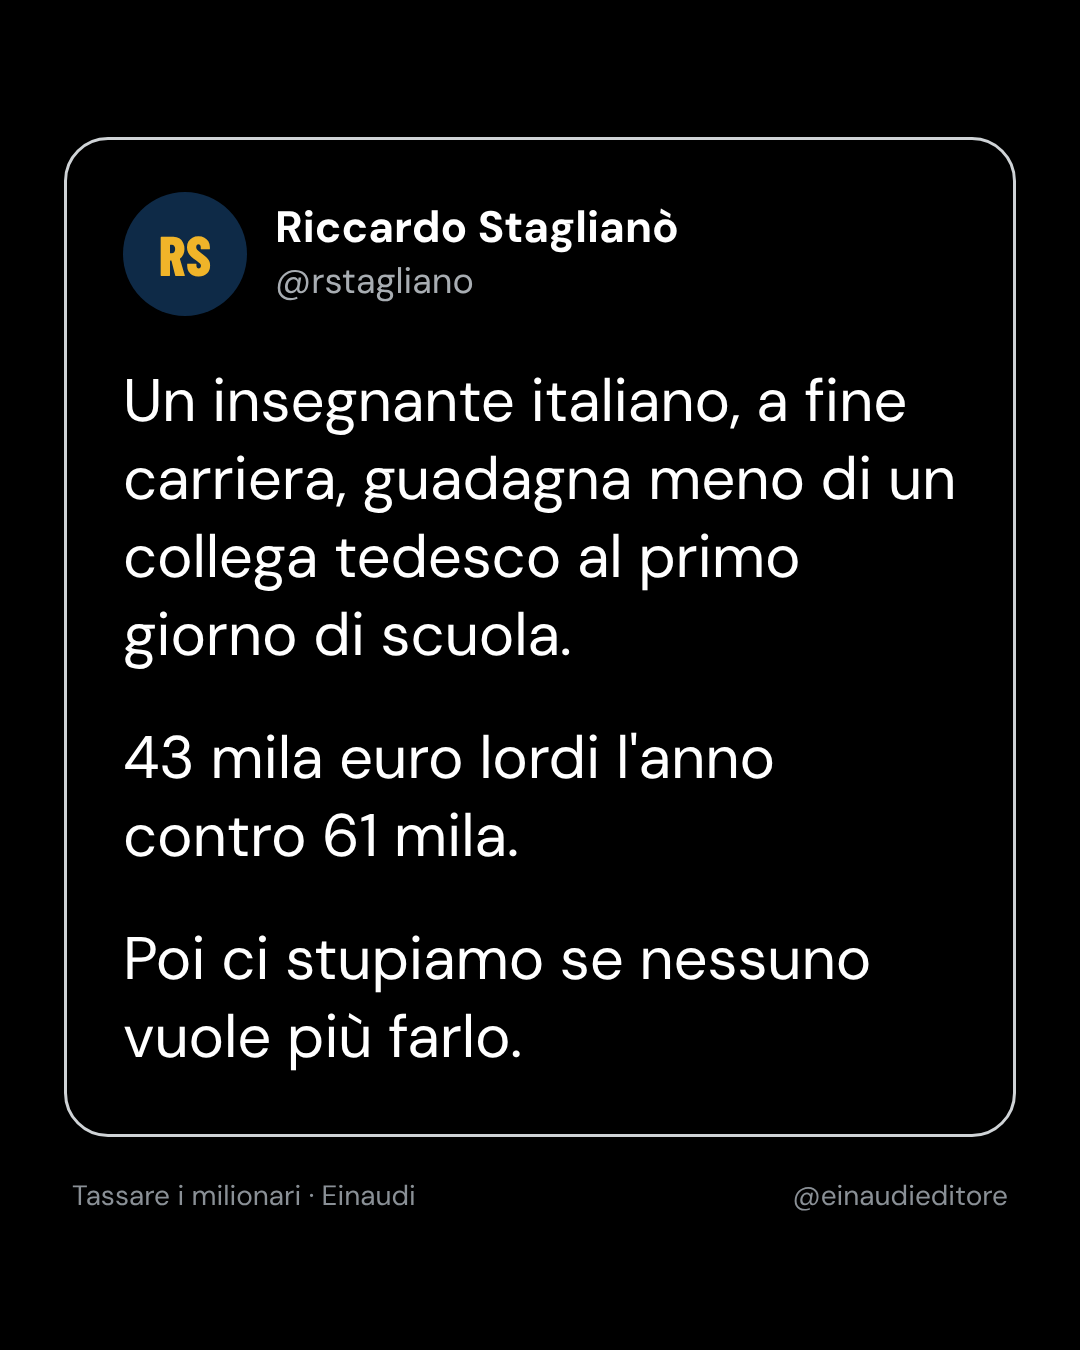
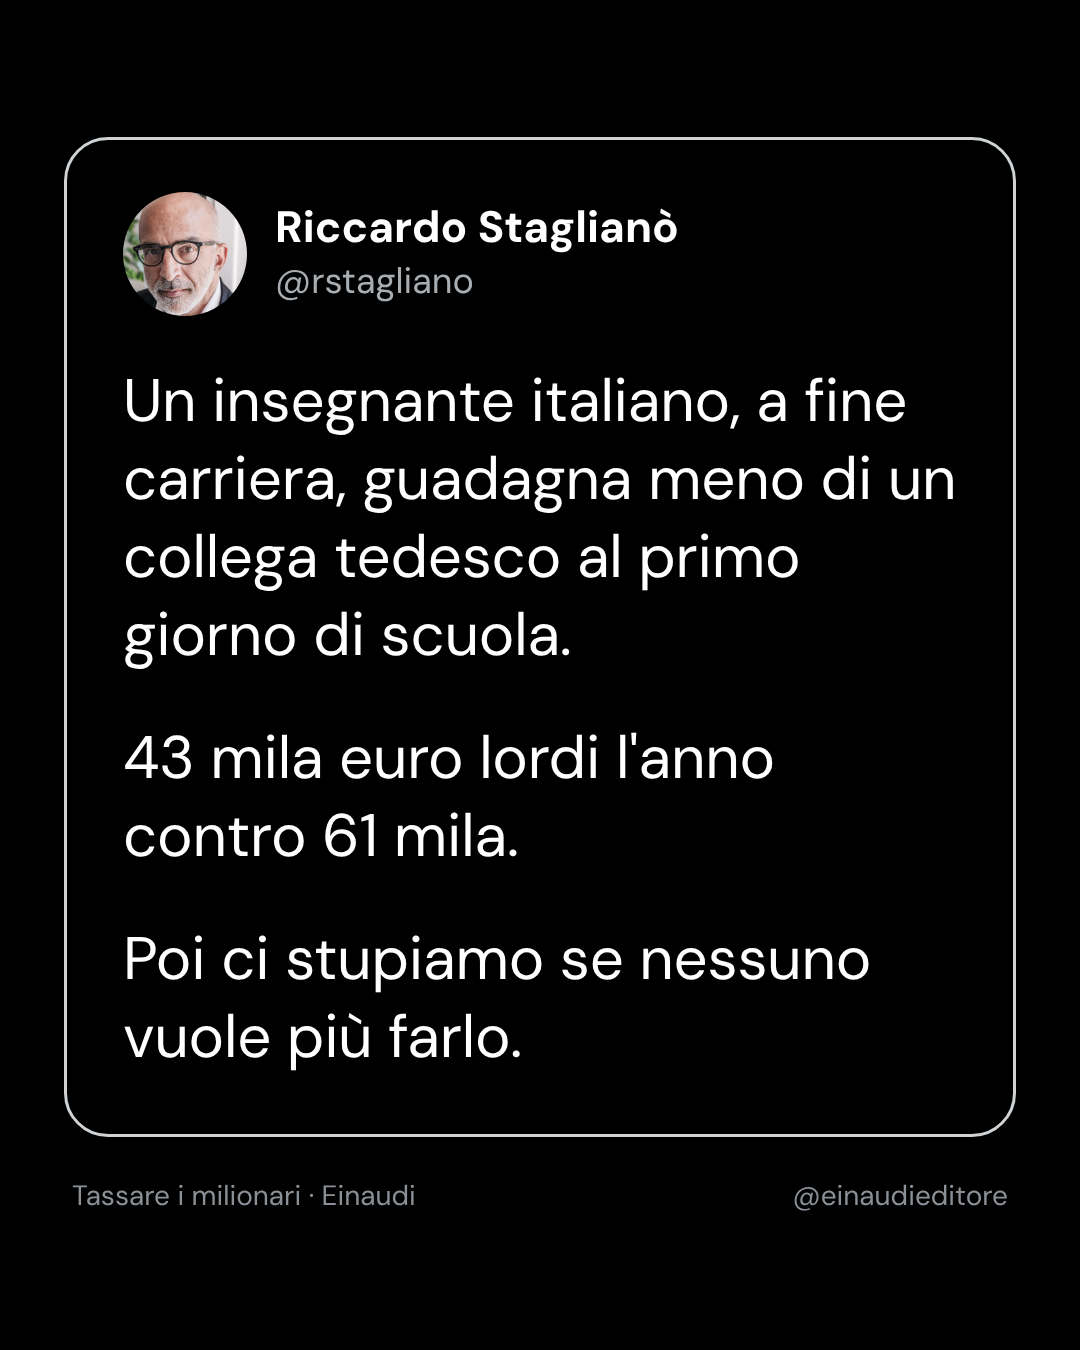
Lapidari: foto profilo nel cerchio
Claude-Session: https://claude.ai/code/session_014gotUu4cKkdnh8e1bffQXW

Changed region(s): [[0.0917, 0.1244, 0.2444, 0.2489]]

diff --git a/novembre/src/html/n14_lap_quota_ricchezza.html b/novembre/src/html/n14_lap_quota_ricchezza.html
@@ -13,7 +13,7 @@ body{font-family:'DM Sans',sans-serif;color:#fff;-webkit-font-smoothing:antialia
 .meta{margin-top:40px;font-size:28px;color:#8a9096;display:flex;justify-content:space-between;padding:0 8px}
 </style></head>
 <body><div class="wrap"><div class="card">
-<div class="head"><div class="av" style="background:#0e2a47;color:#f0b429">RS</div>
+<div class="head"><div class="av" style="background-image:url('file:///home/claude/tassareimilionari/novembre/src/avatar.jpg')"></div>
 <div><div class="name">Riccardo Staglianò</div><div class="handle">@rstagliano</div></div></div>
 <div class="txt" data-fit="720" style="font-size:70px"><p>Dal 1995 al 2016 lo 0,1% più ricco degli italiani ha quasi raddoppiato la sua fetta di ricchezza: da meno del 6 a quasi il 10%.</p><p>La metà più povera, oltre 25 milioni di persone, è scesa dal 12 a meno del 4%.</p><p>Ma il problema, ci dicevano, era il reddito di cittadinanza.</p></div>
 </div>

diff --git a/novembre/src/html/n16_lap_black_friday.html b/novembre/src/html/n16_lap_black_friday.html
@@ -13,7 +13,7 @@ body{font-family:'DM Sans',sans-serif;color:#fff;-webkit-font-smoothing:antialia
 .meta{margin-top:40px;font-size:28px;color:#8a9096;display:flex;justify-content:space-between;padding:0 8px}
 </style></head>
 <body><div class="wrap"><div class="card">
-<div class="head"><div class="av" style="background:#0e2a47;color:#f0b429">RS</div>
+<div class="head"><div class="av" style="background-image:url('file:///home/claude/tassareimilionari/novembre/src/avatar.jpg')"></div>
 <div><div class="name">Riccardo Staglianò</div><div class="handle">@rstagliano</div></div></div>
 <div class="txt" data-fit="720" style="font-size:70px"><p>Oggi è il Black Friday.</p><p>Per i milionari italiani dura tutto l&#x27;anno.</p><p>Affitti al 21%. Dividendi, via holding, intorno all&#x27;1%. Eredità a figli e coniuge al 4%, sopra il primo milione esente.</p><p>Sconti che noi comuni mortali non vedremo mai.</p></div>
 </div>

diff --git a/novembre/src/html/n08_lap_mentone.html b/novembre/src/html/n08_lap_mentone.html
@@ -13,7 +13,7 @@ body{font-family:'DM Sans',sans-serif;color:#fff;-webkit-font-smoothing:antialia
 .meta{margin-top:40px;font-size:28px;color:#8a9096;display:flex;justify-content:space-between;padding:0 8px}
 </style></head>
 <body><div class="wrap"><div class="card">
-<div class="head"><div class="av" style="background:#0e2a47;color:#f0b429">RS</div>
+<div class="head"><div class="av" style="background-image:url('file:///home/claude/tassareimilionari/novembre/src/avatar.jpg')"></div>
 <div><div class="name">Riccardo Staglianò</div><div class="handle">@rstagliano</div></div></div>
 <div class="txt" data-fit="720" style="font-size:74px"><p>Milionario francese con un&#x27;eredità da lasciare?</p><p>Trasferisciti in Liguria. In Francia lo Stato può prendersi fino al 60%. Da noi, tra il 4 e l&#x27;8.</p><p>Il paradiso fiscale dove in più si mangia bene.</p></div>
 </div>

diff --git a/novembre/src/html/n04_lap_crisi_2008.html b/novembre/src/html/n04_lap_crisi_2008.html
@@ -13,7 +13,7 @@ body{font-family:'DM Sans',sans-serif;color:#fff;-webkit-font-smoothing:antialia
 .meta{margin-top:40px;font-size:28px;color:#8a9096;display:flex;justify-content:space-between;padding:0 8px}
 </style></head>
 <body><div class="wrap"><div class="card">
-<div class="head"><div class="av" style="background:#0e2a47;color:#f0b429">RS</div>
+<div class="head"><div class="av" style="background-image:url('file:///home/claude/tassareimilionari/novembre/src/avatar.jpg')"></div>
 <div><div class="name">Riccardo Staglianò</div><div class="handle">@rstagliano</div></div></div>
 <div class="txt" data-fit="720" style="font-size:74px"><p>Per la crisi finanziaria del 2008 sono finite in carcere 55 persone.</p><p>Quasi tutte in Islanda.</p><p>In America, epicentro del disastro: zero.</p><p>A pagare il conto, invece, ci hanno pensato tutti gli altri.</p></div>
 </div>

diff --git a/novembre/src/html/n02_lap_prof_tedesco.html b/novembre/src/html/n02_lap_prof_tedesco.html
@@ -13,7 +13,7 @@ body{font-family:'DM Sans',sans-serif;color:#fff;-webkit-font-smoothing:antialia
 .meta{margin-top:40px;font-size:28px;color:#8a9096;display:flex;justify-content:space-between;padding:0 8px}
 </style></head>
 <body><div class="wrap"><div class="card">
-<div class="head"><div class="av" style="background:#0e2a47;color:#f0b429">RS</div>
+<div class="head"><div class="av" style="background-image:url('file:///home/claude/tassareimilionari/novembre/src/avatar.jpg')"></div>
 <div><div class="name">Riccardo Staglianò</div><div class="handle">@rstagliano</div></div></div>
 <div class="txt" data-fit="720" style="font-size:74px"><p>Un insegnante italiano, a fine carriera, guadagna meno di un collega tedesco al primo giorno di scuola.</p><p>43 mila euro lordi l&#x27;anno contro 61 mila.</p><p>Poi ci stupiamo se nessuno vuole più farlo.</p></div>
 </div>

diff --git a/novembre/src/html/n12_lap_segreto_bancario.html b/novembre/src/html/n12_lap_segreto_bancario.html
@@ -13,7 +13,7 @@ body{font-family:'DM Sans',sans-serif;color:#fff;-webkit-font-smoothing:antialia
 .meta{margin-top:40px;font-size:28px;color:#8a9096;display:flex;justify-content:space-between;padding:0 8px}
 </style></head>
 <body><div class="wrap"><div class="card">
-<div class="head"><div class="av" style="background:#0e2a47;color:#f0b429">RS</div>
+<div class="head"><div class="av" style="background-image:url('file:///home/claude/tassareimilionari/novembre/src/avatar.jpg')"></div>
 <div><div class="name">Riccardo Staglianò</div><div class="handle">@rstagliano</div></div></div>
 <div class="txt" data-fit="720" style="font-size:74px"><p>Vent&#x27;anni fa il segreto bancario svizzero sembrava eterno.</p><p>È caduto nel 2015.</p><p>Oggi una patrimoniale sui multimilionari sembra impossibile.</p><p>Finché non lo è più.</p></div>
 </div>

diff --git a/novembre/src/html/n06_lap_rendite.html b/novembre/src/html/n06_lap_rendite.html
@@ -13,7 +13,7 @@ body{font-family:'DM Sans',sans-serif;color:#fff;-webkit-font-smoothing:antialia
 .meta{margin-top:40px;font-size:28px;color:#8a9096;display:flex;justify-content:space-between;padding:0 8px}
 </style></head>
 <body><div class="wrap"><div class="card">
-<div class="head"><div class="av" style="background:#0e2a47;color:#f0b429">RS</div>
+<div class="head"><div class="av" style="background-image:url('file:///home/claude/tassareimilionari/novembre/src/avatar.jpg')"></div>
 <div><div class="name">Riccardo Staglianò</div><div class="handle">@rstagliano</div></div></div>
 <div class="txt" data-fit="720" style="font-size:72px"><p>In Italia chi incassa affitti paga il 21%.</p><p>Chi incassa dividendi, il 26%.</p><p>Chi lavora come dipendente, quasi il doppio.</p><p>E poi ci dicono che il lavoro va premiato.</p></div>
 </div>

diff --git a/novembre/src/html/n10_lap_zucman.html b/novembre/src/html/n10_lap_zucman.html
@@ -13,7 +13,7 @@ body{font-family:'DM Sans',sans-serif;color:#fff;-webkit-font-smoothing:antialia
 .meta{margin-top:40px;font-size:28px;color:#8a9096;display:flex;justify-content:space-between;padding:0 8px}
 </style></head>
 <body><div class="wrap"><div class="card">
-<div class="head"><div class="av" style="background:#0e2a47;color:#f0b429">RS</div>
+<div class="head"><div class="av" style="background-image:url('file:///home/claude/tassareimilionari/novembre/src/avatar.jpg')"></div>
 <div><div class="name">Riccardo Staglianò</div><div class="handle">@rstagliano</div></div></div>
 <div class="txt" data-fit="720" style="font-size:74px"><p>I circa 3.000 miliardari del pianeta pagano in tasse lo 0,3% della loro ricchezza.</p><p>La proposta di Gabriel Zucman: almeno il 2%.</p><p>Ecco, questo sarebbe l&#x27;estremismo.</p></div>
 </div>

diff --git a/novembre/src/html/n18_lap_davvero.html b/novembre/src/html/n18_lap_davvero.html
@@ -13,7 +13,7 @@ body{font-family:'DM Sans',sans-serif;color:#fff;-webkit-font-smoothing:antialia
 .meta{margin-top:40px;font-size:28px;color:#8a9096;display:flex;justify-content:space-between;padding:0 8px}
 </style></head>
 <body><div class="wrap"><div class="card">
-<div class="head"><div class="av" style="background:#0e2a47;color:#f0b429">RS</div>
+<div class="head"><div class="av" style="background-image:url('file:///home/claude/tassareimilionari/novembre/src/avatar.jpg')"></div>
 <div><div class="name">Riccardo Staglianò</div><div class="handle">@rstagliano</div></div></div>
 <div class="txt" data-fit="720" style="font-size:78px"><p>Se sei milionario puoi, anzi dovresti, pagare molte più tasse di un impiegato.</p><p>Se sei miliardario, mille volte di più.</p><p>Davvero c&#x27;è bisogno di spiegarlo?</p></div>
 </div>
